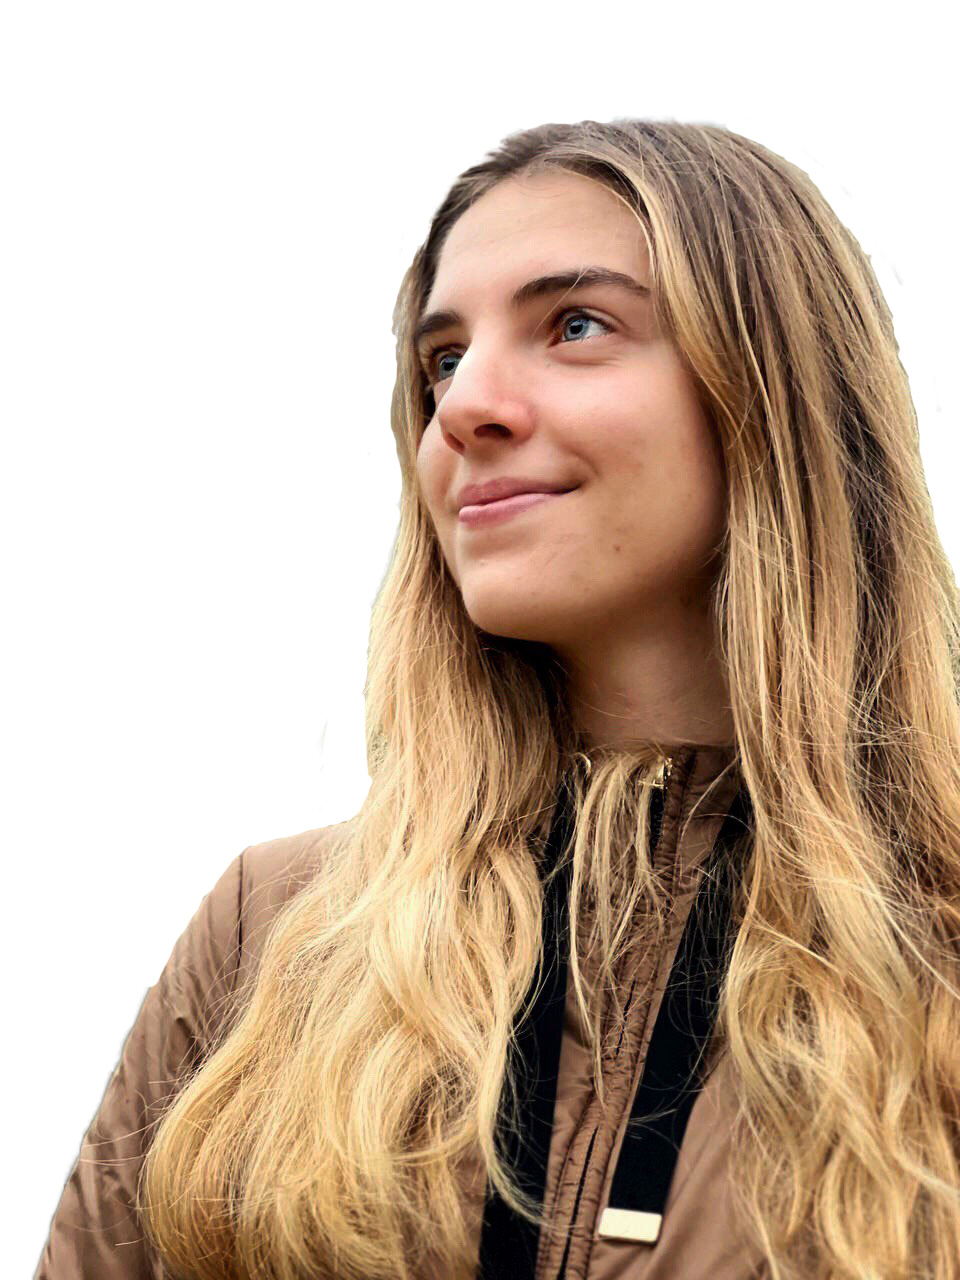
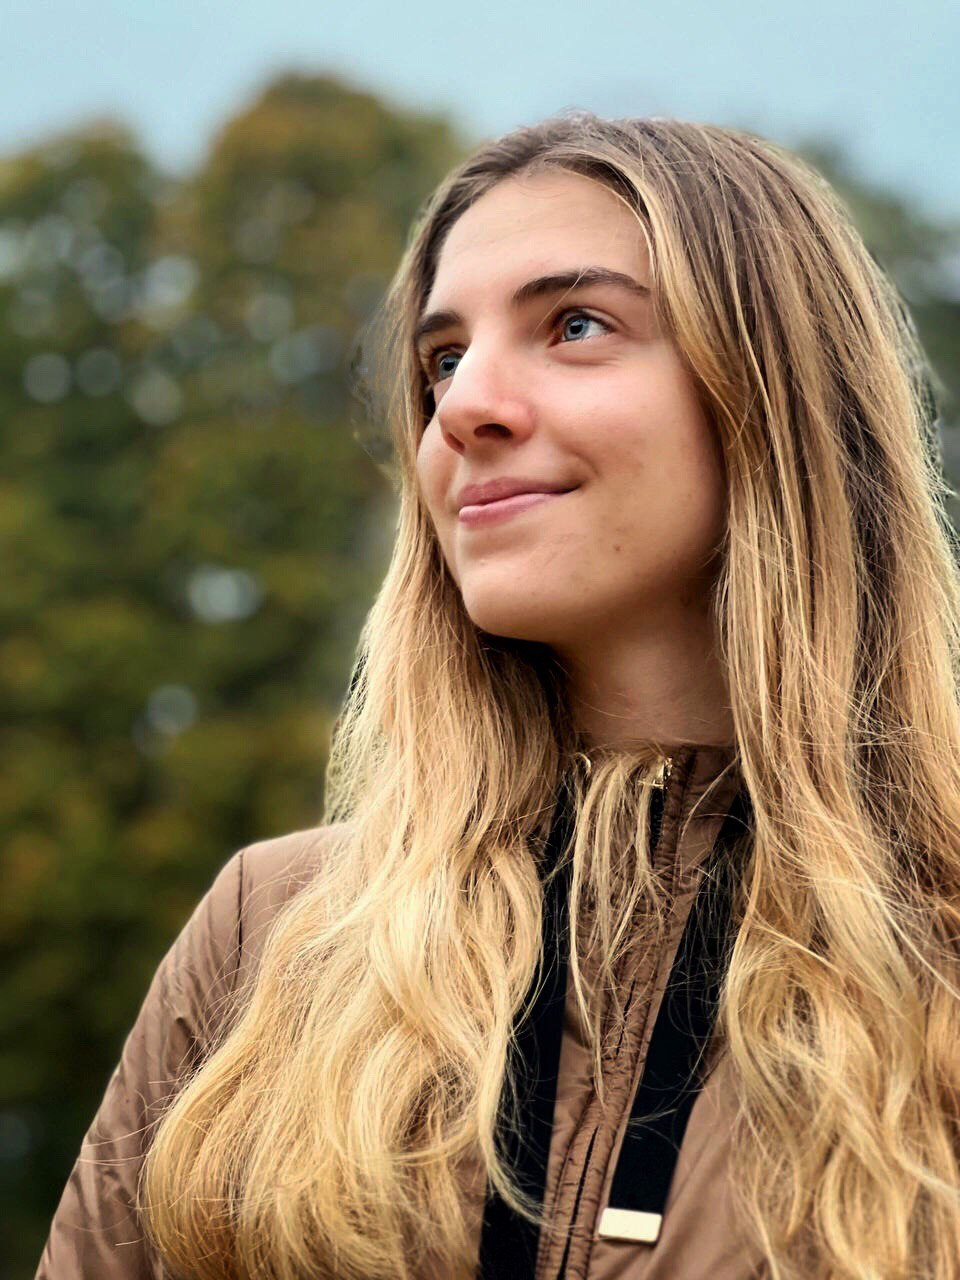
about
javascript

diff --git a/about.html b/about.html
@@ -27,18 +27,63 @@
             <div class="about-col-1">
                 <img src="immagini/about.svg">
                 <div class="col1-text">
-                <h1>Lorem ipsum dolor sit amet, consectetur adipisicing elit</h1>
-                <p>Lorem ipsum dolor sit amet, consectetur adipisicing elit. Id laudantium assumenda explicabo at libero officiis ullam in molestiae consequatur sunt placeat perferendis quam beatae, consequuntur porro obcaecati aliquam minima est!</p>
+                <!---<h1 class="sub-title">Lorem ipsum </h1>-->
+                <p>Lorem ipsum dolor sit amet, consectetur adipisicing elit. 
+                    Id laudantium assumenda explicabo at libero officiis ullam 
+                    in molestiae consequatur sunt placeat perferendis quam beatae, 
+                    consequuntur porro obcaecati aliquam minima est!</p>
                 </div>
+
+                <div class="tab-titles">
+                    <p class="tab-links active-link" onclick="opentab('skills')">Skills</p>
+                    <p class="tab-links" onclick="opentab('experience')">Experience</p>
+                    <p class="tab-links" onclick="opentab('education')">Education</p>
+                </div>
+                <div class="tab-contents active-tab" id="skills">
+                    <ul>
+                        <li><span>UI/UX</span><br>Designing Web interfaces</li>
+                        <li><span>Buisness Cards</span><br>Lorem ipsum dolor sit amet</li>
+                        <li><span>Photos</span><br>in molestiae consequatur sunt placeat </li>
+                    </ul>
+                </div>
+                <div class="tab-contents" id="experience">
+                    <ul>
+                        <li><span>2022 - Current</span><br>porro obcaecati aliquam minima est!</li>
+                        <li><span>2020 - 2021</span><br>in molestiae consequatur sunt placeat </li>
+                        <li><span>2018 - 2019</span><br> consectetur adipisicing elit</li>
+                    </ul>
+                </div>
+                <div class="tab-contents" id="education">
+                    <ul>
+                        <li><span>Current</span><br> assumenda explicabo at libero officiis ulla</li>
+                        <li><span>2018</span><br>sunt placeat perferendis quam beatae</li>
+                        <li><span>2016</span><br>Lorem ipsum dolor sit amet</li>
+                    </ul>
+                </div>
+
             </div>
             <div class="about-col-2">
-                <img src="immagini/user.png">
+                <img src="immagini/user.jpg">
 
             </div>
 
         </div>
     </div>
 </div>
-    
+<!-- javascript--->
+<script>
+    var tablinks = document.getElementsByClassName('tab-links');
+    var tabcontents = document.getElementsByClassName('tab-contents');
+
+    function opentab(tabname){
+        for(tablink of tablinks){
+            tablink.classList.remove('active-link');
+        }
+        for(tabcontent of tabcontents){
+            tabcontent.classList.remove('active-tab');
+        }
+    }
+
+</script>
 </body>
 </html>

diff --git a/style.css b/style.css
@@ -119,7 +119,7 @@ nav{
 .header-text img{
     /*bisogna renderlo 
     responsive a seconda della dim schermo*/
-    width:35%;
+    width:33%;
     flex-basis: 35%;
     margin-left: 50%;
     margin-right: 140px;
@@ -145,30 +145,72 @@ nav{
     justify-content: space-between;
     flex-wrap: wrap;
 }
-.about-col-1,
-.about-col-2{
+.about-col-1 {
+    flex-basis: 50%;
+}
+.about-col-2 {
     flex-basis: 35%;
 }
 .about-col-2 img{
     width:90%;
     border-radius: 15px;
-    
 }
 .about-col-1{
     margin-left: 8%;
 }
 .about-col-1 img{
-    width: 80%;
-    margin-left: 13%;
+    width: 60%;
+    align-items: center;
+    margin: 0 13% 15px;
 }
-.col1-text p{
-    color: #fff;
-}
-.col1-text h1{
+
+.sub-title{
     color: #a43b7b;
 }
-.col1-text p,
-.col1-text h1{
+.col1-text{
     margin-top: 15px;
-    text-align: center;
+    display: flex;
+    margin-left: -40px;
+    
+}
+.tab-titles{
+    display: flex;
+    /*top left bottom*/
+    margin: 20px -40px 40px;
+}
+.tab-links{
+    margin-right: 50px;
+    font-size: 18px;
+    font-weight: 500;
+    cursor: pointer;
+    position: relative;
+}
+.tab-links::after{
+    content: '';
+    width: 0;
+    height: 3px;
+    background: #a43b7b;
+    position: absolute;
+    left: 0;
+    bottom: -8px;
+    transition: 0.5s;
+}
+.tab-links.active-link::after{
+    width: 50%;
+}
+
+.tab-contents ul li{
+    list-style: none;
+    margin: 10px -40px;
+}
+
+.tab-contents ul li span{
+    color: #7b3460;
+    font-size: 14px;
+}
+.tab-contents{
+    display: none;
+}
+.tab-contents.active-tab{
+    display: block;
 }

diff --git a/index.html b/index.html
@@ -26,7 +26,7 @@
                 <h1>Hi, I'm <span>Emma</span><br>from Venice, Italy</h1>
                 <a href="" class="hero-btn">download CV</a>
                 <a href="/contact.html" class="hero-btn">contact me</a>
-                <a href="/about.html"><img src="immagini/profile.svg"></a>
+                <a href="/about.html"><img src="immagini/profile-2.svg"></a>
 
             </div> 
 
